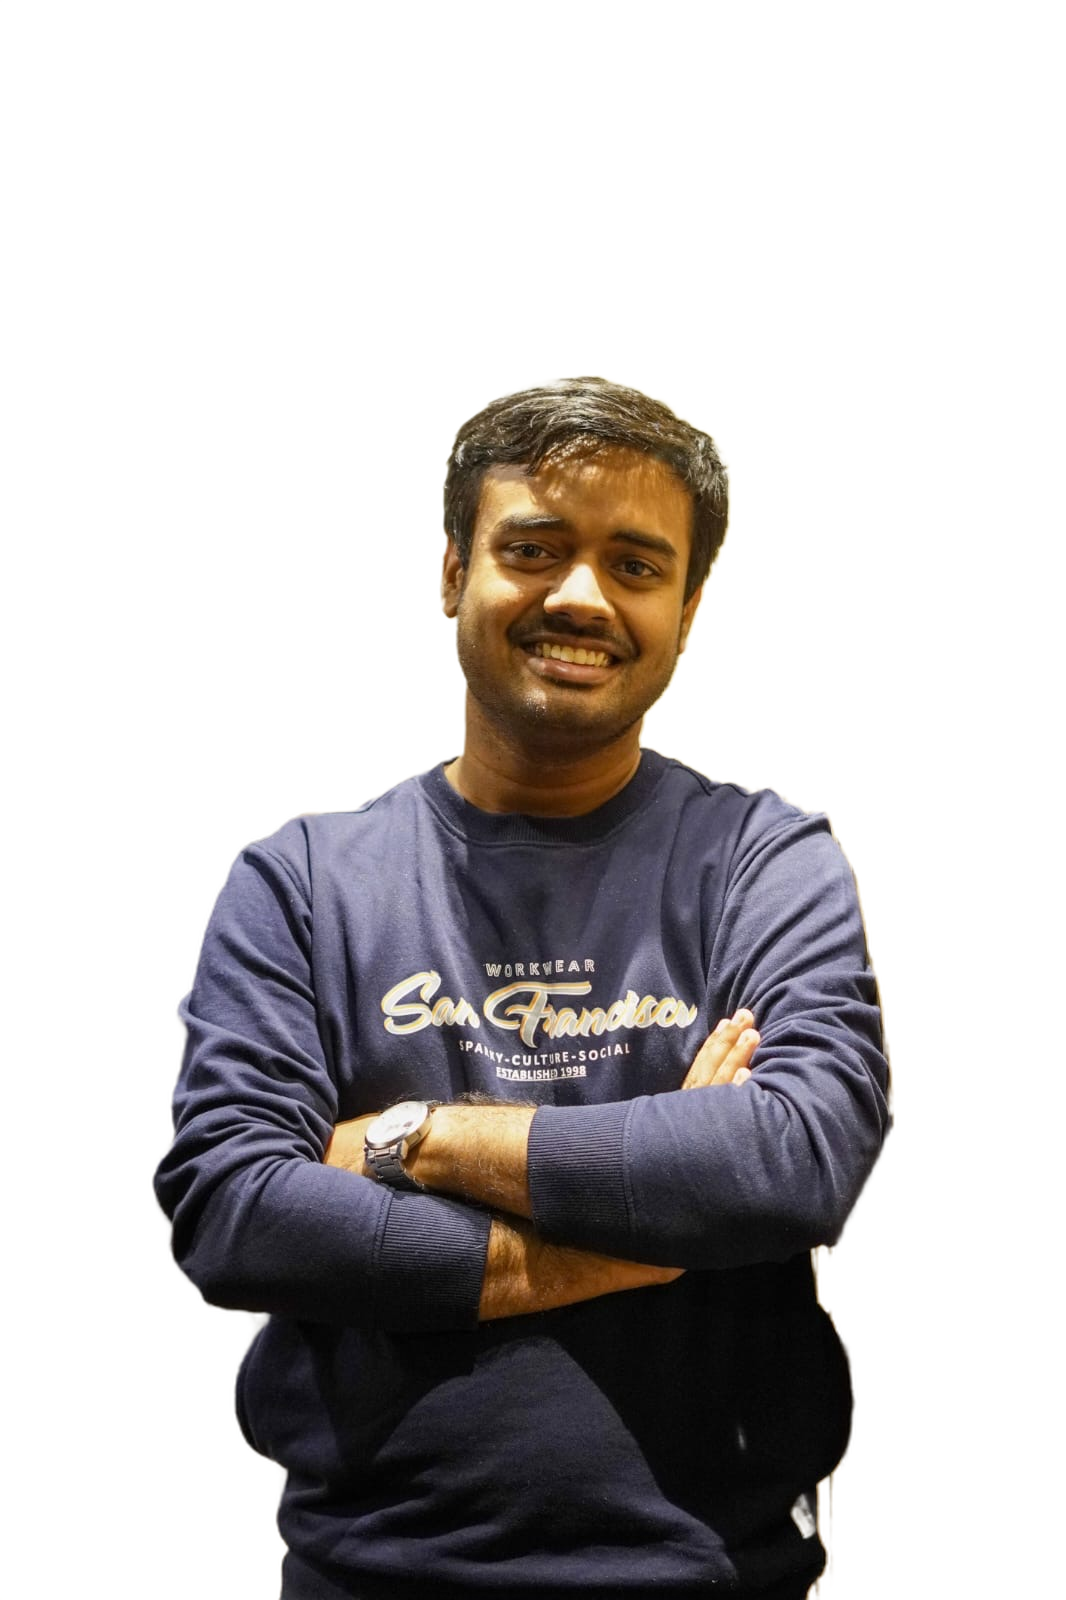
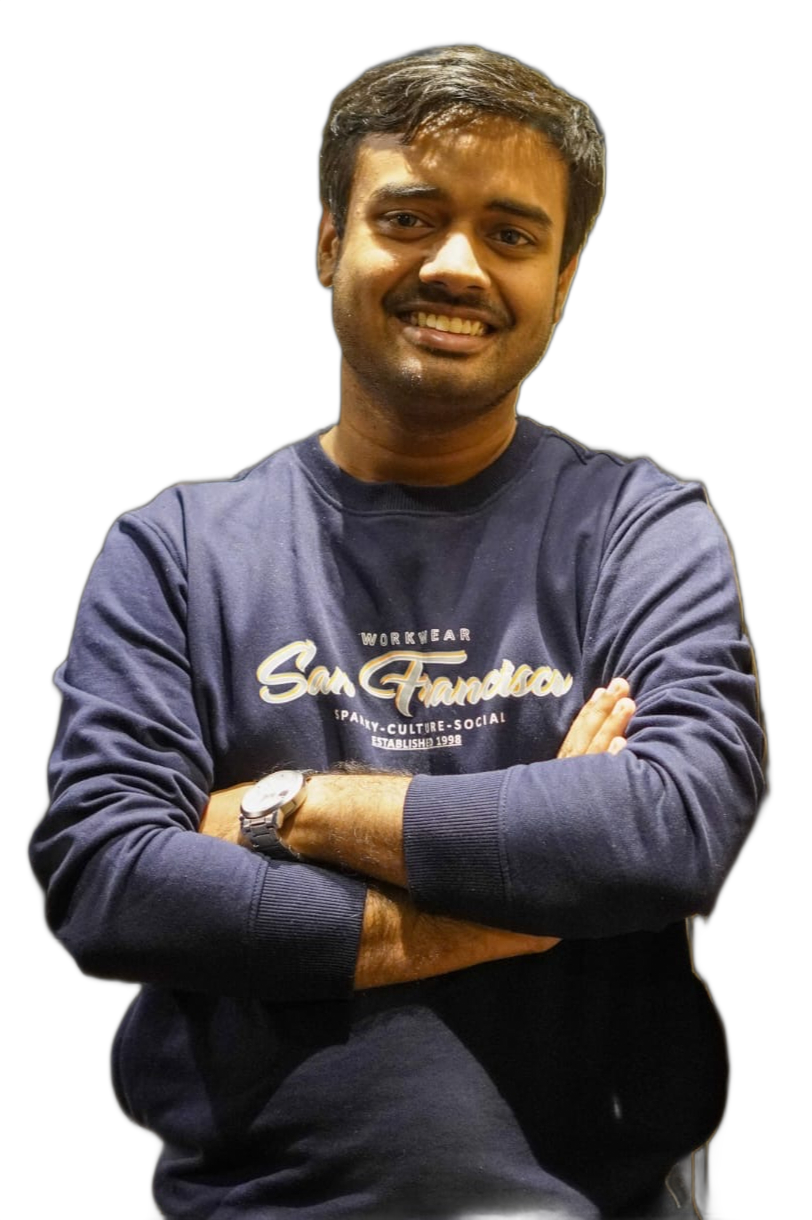
fix: update profile image version to reflect recent changes

diff --git a/src/content/index.ts b/src/content/index.ts
@@ -13,7 +13,7 @@ export const siteContent = {
   siteUrl: "https://sugatobagchi.com",
   profileImage: "/me.png",
   // Bump when replacing public/me.png so Next.js image cache and CDNs pick up the new file
-  profileImageVersion: "2026-07-02",
+  profileImageVersion: "2026-07-01",
 
   seo: {
     title: "Sugato Bagchi | Software Engineer",
